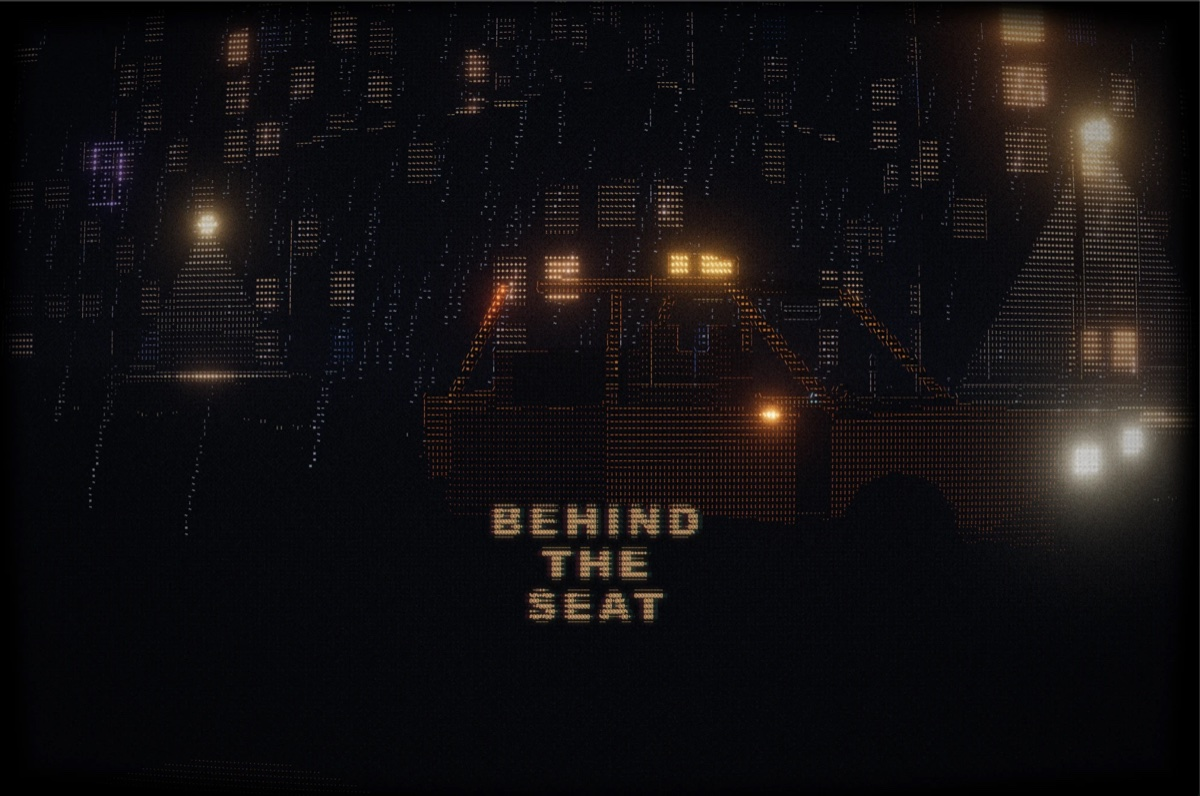
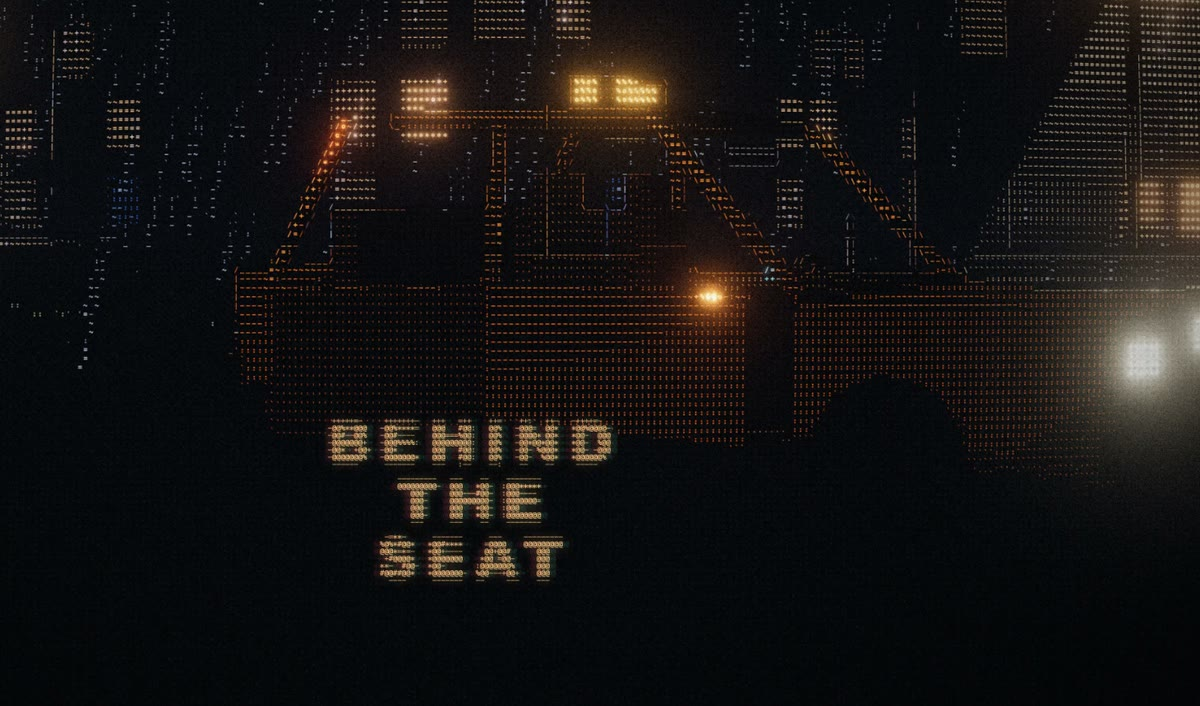
Behind the Seat thumbnail cropped closer on the cab and title

diff --git a/assets/content.js b/assets/content.js
@@ -100,7 +100,7 @@ export const projects = [
     role: 'Creator · story, design, code',
     year: '2026',
     motif: '🚕',
-    img: 'assets/img/behind-the-seat.jpg', pos: '50% 62%',
+    img: 'assets/img/behind-the-seat.jpg', pos: '50% 50%',
     blurb: 'A rainy night, a taxi, and a driver who asks one question: "When?" The passenger answers in one line and the ride becomes a memory, drawn entirely in ASCII characters that flow around you.',
     links: [{ label: 'take the ride', url: 'https://behindtheseat.vercel.app' }],
   },
